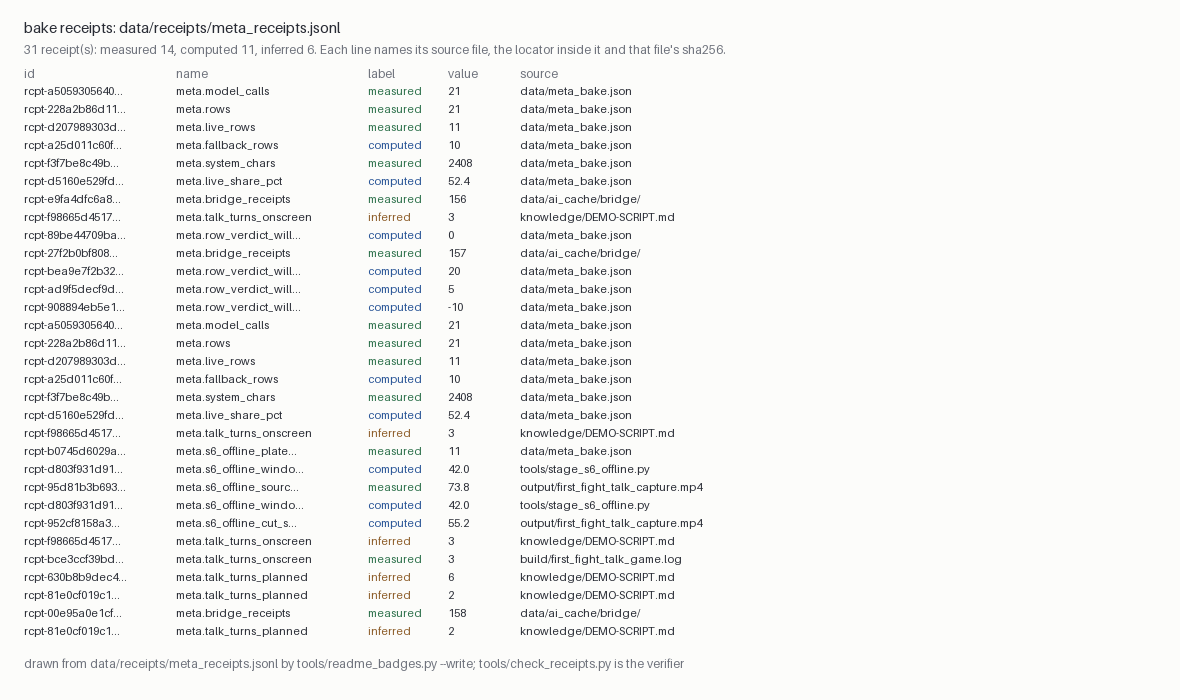
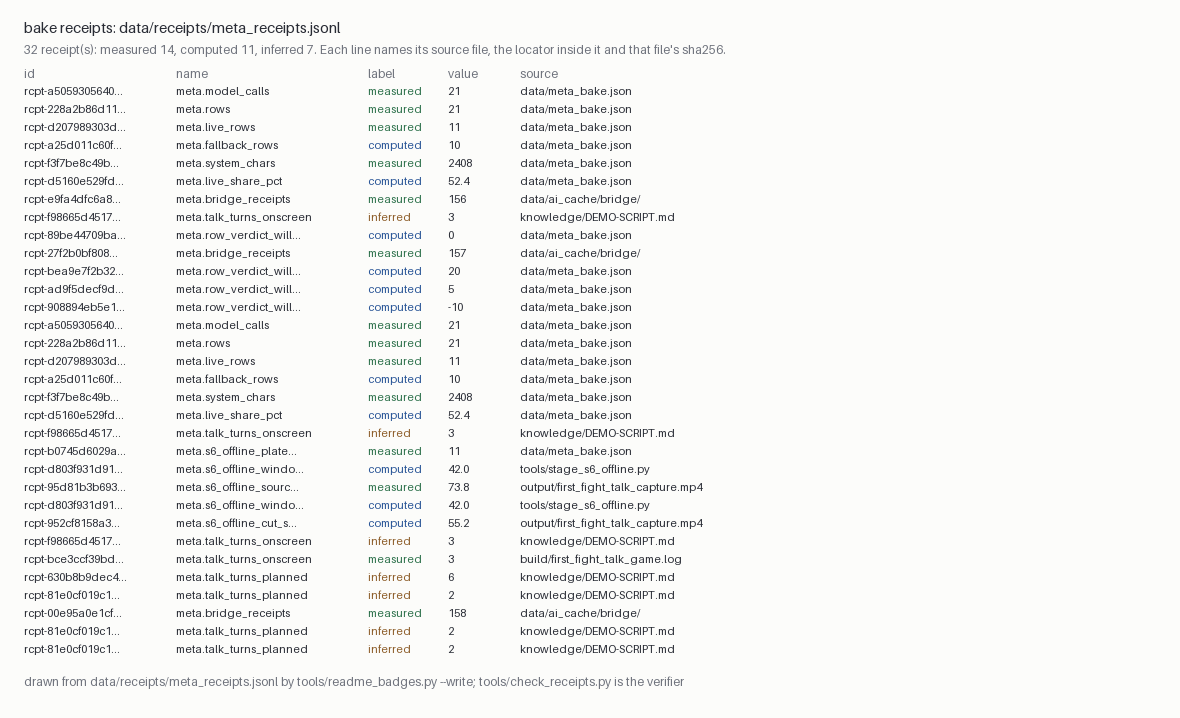
t_36c939a8 re-stamp README.md from a real Meta rewrite and redraw the badge block: the prose five later commits changed is written by muse-spark-1.3 again (body 95c918e4, 10 of 12 pieces rewritten, 2 kept by the tool's own validator), the badge block is rewritten from a fresh gate run and docs/bake_
Built-by: builder agent of the Hermes fleet
Card: t_36c939a8

Changed region(s): [[0.0, 0.03, 0.6102, 0.96]]

diff --git a/README.md b/README.md
@@ -1,6 +1,8 @@
 # Primordial Paradox
 
-You play a retro role playing game in the style of the 8-bit NES, an old Nintendo console. You meet Greek gods reincarnated in modern England.
+You play a retro role playing game in the style of the 8-bit NES, an old Nintendo console.
+
+You meet Greek gods reincarnated in modern England.
 
 You win fights by talking as well as by hitting.
 
@@ -10,11 +12,16 @@ A hurricane is battering Southampton's Town Quay. Percy, the reincarnation of Po
 
 Zander (Zeus), Konrad (Kronos) and Hadrian (Hades) have to stop them so they return to their usual selves.
 
-Talk to an enemy and answer well to fill its MERCY meter, which measures forgiveness, then choose SPARE, which lets it live. Or take its HP, which means health, to zero. Then it disintegr
+You can stop an enemy in two ways.
+
+* Talk to an enemy and answer well to fill its MERCY meter, which measures forgiveness, then choose SPARE, which lets it live.
+* Take its HP to zero. Then it disintegr
 
 ## Play it
 
-Download the hackathon repository at https://github.com/NayilRArana/primordial-paradox-hackathon, which holds the project files. Open the `play` folder. Double-click `PrimordialParadox.exe` (Windows, nothing to install).
+Download the hackathon repository at https://github.com/NayilRArana/primordial-paradox-hackathon, which holds the project files.
+
+Open the `play` folder. Double-click `PrimordialParadox.exe` (Windows, nothing to install).
 
 Controls:
 
@@ -26,7 +33,7 @@ Controls:
 
 ## How it is built
 
-The game is a GameMaker project at 256 by 240 pixels. GameMaker is the game engine.
+The game is a GameMaker project at 256 by 240 pixels.
 
 Python is used only for tooling:
 - the NES picture chip gate (`tools/nes_check.py`), which checks image limits
@@ -35,7 +42,7 @@ Python is used only for tooling:
 - the art and music pipelines, which prepare assets
 - the build scripts, which assemble the release
 
-The music is original chiptune, simple retro game music, composed with the counterpoint toolchain in `tools/counterpoint/`.
+The music is original chiptune, simple retro game music. It was composed with the counterpoint toolchain in `tools/counterpoint/`.
 
 Meta's `muse-spark-1.3` answers the TALK box and judges dialogue. Its answers are recorded in `data/ai_cache` so the game plays offline.
 
@@ -117,7 +124,7 @@ powershell -NoProfile -ExecutionPolicy Bypass -File tools/run.ps1
 
 The credits say a Meta model wrote the scenes and judged the TALK box, and the sections above say which files call it. This is where the numbers behind those credits are receipted, so a reader re-reads a source instead of believing a sentence:
 
-* `data/receipts/meta_receipts.jsonl` is the ledger: 31 receipt(s), measured 14, computed 11, inferred 6. Every line names the source file, the locator inside it and that file's sha256.
+* `data/receipts/meta_receipts.jsonl` is the ledger: 32 receipt(s), measured 14, computed 11, inferred 7. Every line names the source file, the locator inside it and that file's sha256.
 * `tools/receipts.py` writes the receipts, and its three labels are the only ones allowed: measured is a value read out of a committed file and re-hashable from it, computed is arithmetic over numbers measured in the same ledger, and inferred means no file records the value and the receipt says so in words.
 * `tools/check_receipts.py` is the verifier. It exits 0 only when every receipt resolves, and a receipt whose source changed after it was written is a NOTE that asks for a re-issue rather than a pass. Run it with no argument and it re-reads the newest take verify file that carries a `meta_numbers` block, one number at a time.
 * The picture below is drawn from those ledger rows by `python tools/readme_badges.py --write`, so it shows the receipts the file holds and cannot show one it does not. `--verify` refuses the page when the picture is missing or was drawn for a ledger of another size, and refuses the sentence above when the label counts moved. An edit inside one line keeps that size, so the picture follows the next `--write` rather than the page.
@@ -131,9 +138,9 @@ The prose on this page is written by `muse-spark-1.3` through `tools/readme_meta
 
 ## The tagged tree and tonight's finished cut
 
-This section sits outside the block the badge tool owns, so `python tools/readme_badges.py --write` rewrites its own region and leaves this one alone. A reader does not have to take the two PASS rows above on trust, and the 180 second video beside them is measured, not claimed.
+This section sits outside the block the badge tool owns. `python tools/readme_badges.py --write` rewrites its own region and leaves this one alone. You do not have to take the two PASS rows above on trust, and the 180 second video beside them is measured, not claimed.
 
-* The tag `nightly-clean-2026-11-15` is an annotated tag on a commit whose parent is `461cb9a5`, and the tag's tree is that commit plus this page. The checkout behind it carries 1114 uncommitted paths from other lanes and none of them is in the tag: `git archive nightly-clean-2026-11-15` extracts 2,515 files, the same count `git ls-tree -r --name-only nightly-clean-2026-11-15` prints, so the tag's tree is exactly the commit and nothing from the dirty working tree.
+* The tag `nightly-clean-2026-11-15` is an annotated tag on a commit whose parent is `461cb9a5`, and the tag's tree is that commit plus this page. The checkout behind it carries 1114 uncommitted paths from other lanes and none of them is in the tag. `git archive nightly-clean-2026-11-15` extracts 2,515 files, the same count `git ls-tree -r --name-only nightly-clean-2026-11-15` prints, so the tag's tree is exactly the commit and nothing from the dirty working tree.
 * Both data gates were run inside that export, not in the dirty checkout, and both exit 0. check_cleanroom scans 811 files there against the 905 it scans in the checkout, which is the uncommitted paths it is not looking at:
 
 ```text
@@ -146,9 +153,15 @@ check_cleanroom: no study reference, no foreign name, no foreign phrase, every m
 * `tools/demo_cut_180.py --build` is the tool that assembles the six shots to the 180.00 s total; `tools/play_demo.py` is the recorder that produces source footage, and `knowledge/DEMO-AUTHORITY-RULING-2026-11-12.md` section 2 is why the cut, and not a recorder take, is the shipping video. The build and the verify above are one pass each on the same inputs, in the same minute.
 * The gap the tag does not close, and the commit that does close it. The cut above needs seven paths the tag does not carry, and `HEAD` now carries every one of them: `tools/video_builder.py` and `data/slice.json`, which draw and hold the opaque 16.00 s card, landed in `ee1e9adb`; `tools/demo_cut_180.py`, `tools/demo_overlay.py` with its S5 verdict window, and the two tests that read them landed in `f31a8226`; `tools/demo_voiceover.py`, `data/demo/narration.json`, `knowledge/DEMO-SCRIPT.md` section 12 and `tests/test_demo_narration.py` landed in `ce8e2def`. `git archive HEAD` extracts 2,519 files, and a build from that export reads nothing in the working tree: `python tools/demo_cut_180.py --build --video output/demo/nightly-2026-11-15e.mp4` and `--verify` on the result both exit 0, 24 rows ok and 0 failed, at 180.000 s, 10,800 frames, 768 by 784 at 60 fps and 16,937,739 bytes, with `output/demo/nightly-2026-11-15e_verify.json` written beside it. The take the 2026-11-16 judge panel scored, `output/demo/nightly-2026-11-15.mp4`, is not overwritten.
 
+
+
 ## The AI verdict on screen
 
-The TALK turns in the Morgan fight are answered out of `data/meta_bake.json`, which records `muse-spark-1.3` as the model, and the demo's fifth shot says so on the screen itself rather than in a caption. From 1:18.00 to 1:50.00 one NES window sits in the strip of battle frame between the enemy plate and the party panel, so the enemy's HP and MERCY bars and the party line stay visible behind it, and every word in it is read out of the record at draw time:
+TALK turns in the Morgan fight come from `data/meta_bake.json`. That file records `muse-spark-1.3` as the model.
+
+The demo's fifth shot shows this on the screen itself, not in a caption.
+
+From 1:18.00 to 1:50.00 one NES window sits in the strip of battle frame between the enemy plate and the party panel. The enemy's HP and MERCY bars and the party line stay visible behind it. Every word in it is read out of the record at draw time:
 
 * the model, by the display name `data/credits.json` prints for the bake's own model id, so the name on the frame and the name in the credits are one string read from one place;
 * the decision, as the effects the three Morgan rows record, checked against the verdict map in `data/talk/sailor_judge.json`, and said in words to be fallback rows, because that is what the bake holds for them and a label that said otherwise would be a claim about a call never made;
@@ -159,11 +172,18 @@ The picture below is frame 6,300 of the 180 second take built on 2026-11-16 and 
 
 ![the S5 AI verdict window](docs/s5_verdict_box.png)
 
-`python tools/demo_overlay.py --shot S5 --frame IN.png --out OUT.png --verdict-box --only ""` draws the window and `--check --verdict-box` measures it: the window is a real filled rectangle, every line carries ink the blanked control does not, the three ids are the receipts the ledger holds, and both battle HUD bands are compared with the same frame drawn without the window and read unchanged.
+`python tools/demo_overlay.py --shot S5 --frame IN.png --out OUT.png --verdict-box --only ""` draws the window.
+
+`--check --verdict-box` measures it:
+
+- The window is a real filled rectangle.
+- Every line carries ink the blanked control does not.
+- The three ids are the receipts the ledger holds.
+- Both battle HUD bands are compared with the same frame drawn without the window and read unchanged.
 
 ## Where the code lives
 
-This folder is the development tree, the working files.
+This folder is the working files. It is the development tree.
 
 The submission splits into two public repositories:
 
@@ -174,6 +194,6 @@ The submission splits into two public repositories:
 
 See `LICENCE` and `CREDITS.md`.
 
-This README is written by a Meta model, an automated text tool, through `tools/readme_meta.py`. `tests/test_readme_meta.py` fails if it is edited by hand.
+A Meta model, an automated text tool, wrote this README through `tools/readme_meta.py`. `tests/test_readme_meta.py` fails if it is edited by hand.
 
-<!-- readme-author: muse-spark-1.3 body-sha256: 6d4bfe4a5a1dbe77dac1cbc682831b6c2e4afa6f668d45f493fec33fa46cb57e -->
+<!-- readme-author: muse-spark-1.3 body-sha256: 95c918e47c57bffe372d76f93e1d114a7fea487d578fc8c7a67a249fc6b88244 -->
